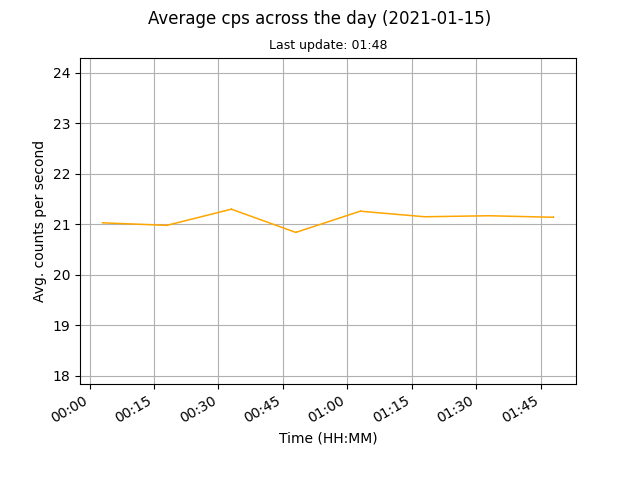
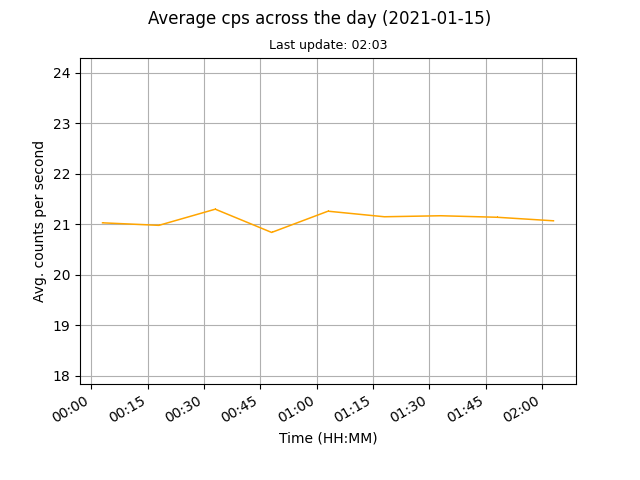
auto data update

diff --git a/docs/index.html b/docs/index.html
@@ -45,8 +45,8 @@
 	
 	<br>
 	
-	<p>Current counts per second (cps): 21.14</p>
-	<p>Last update: 2021-01-15, 01:48</p>
+	<p>Current counts per second (cps): 21.07</p>
+	<p>Last update: 2021-01-15, 02:03</p>
 
 	<p><a href="images/monthly.png"><img src="images/monthly.png" alt="Mothly avg cps data"></a><a href="images/daily.png"><img src="images/daily.png" alt="Daily avg cps data"></a></p>
 	
